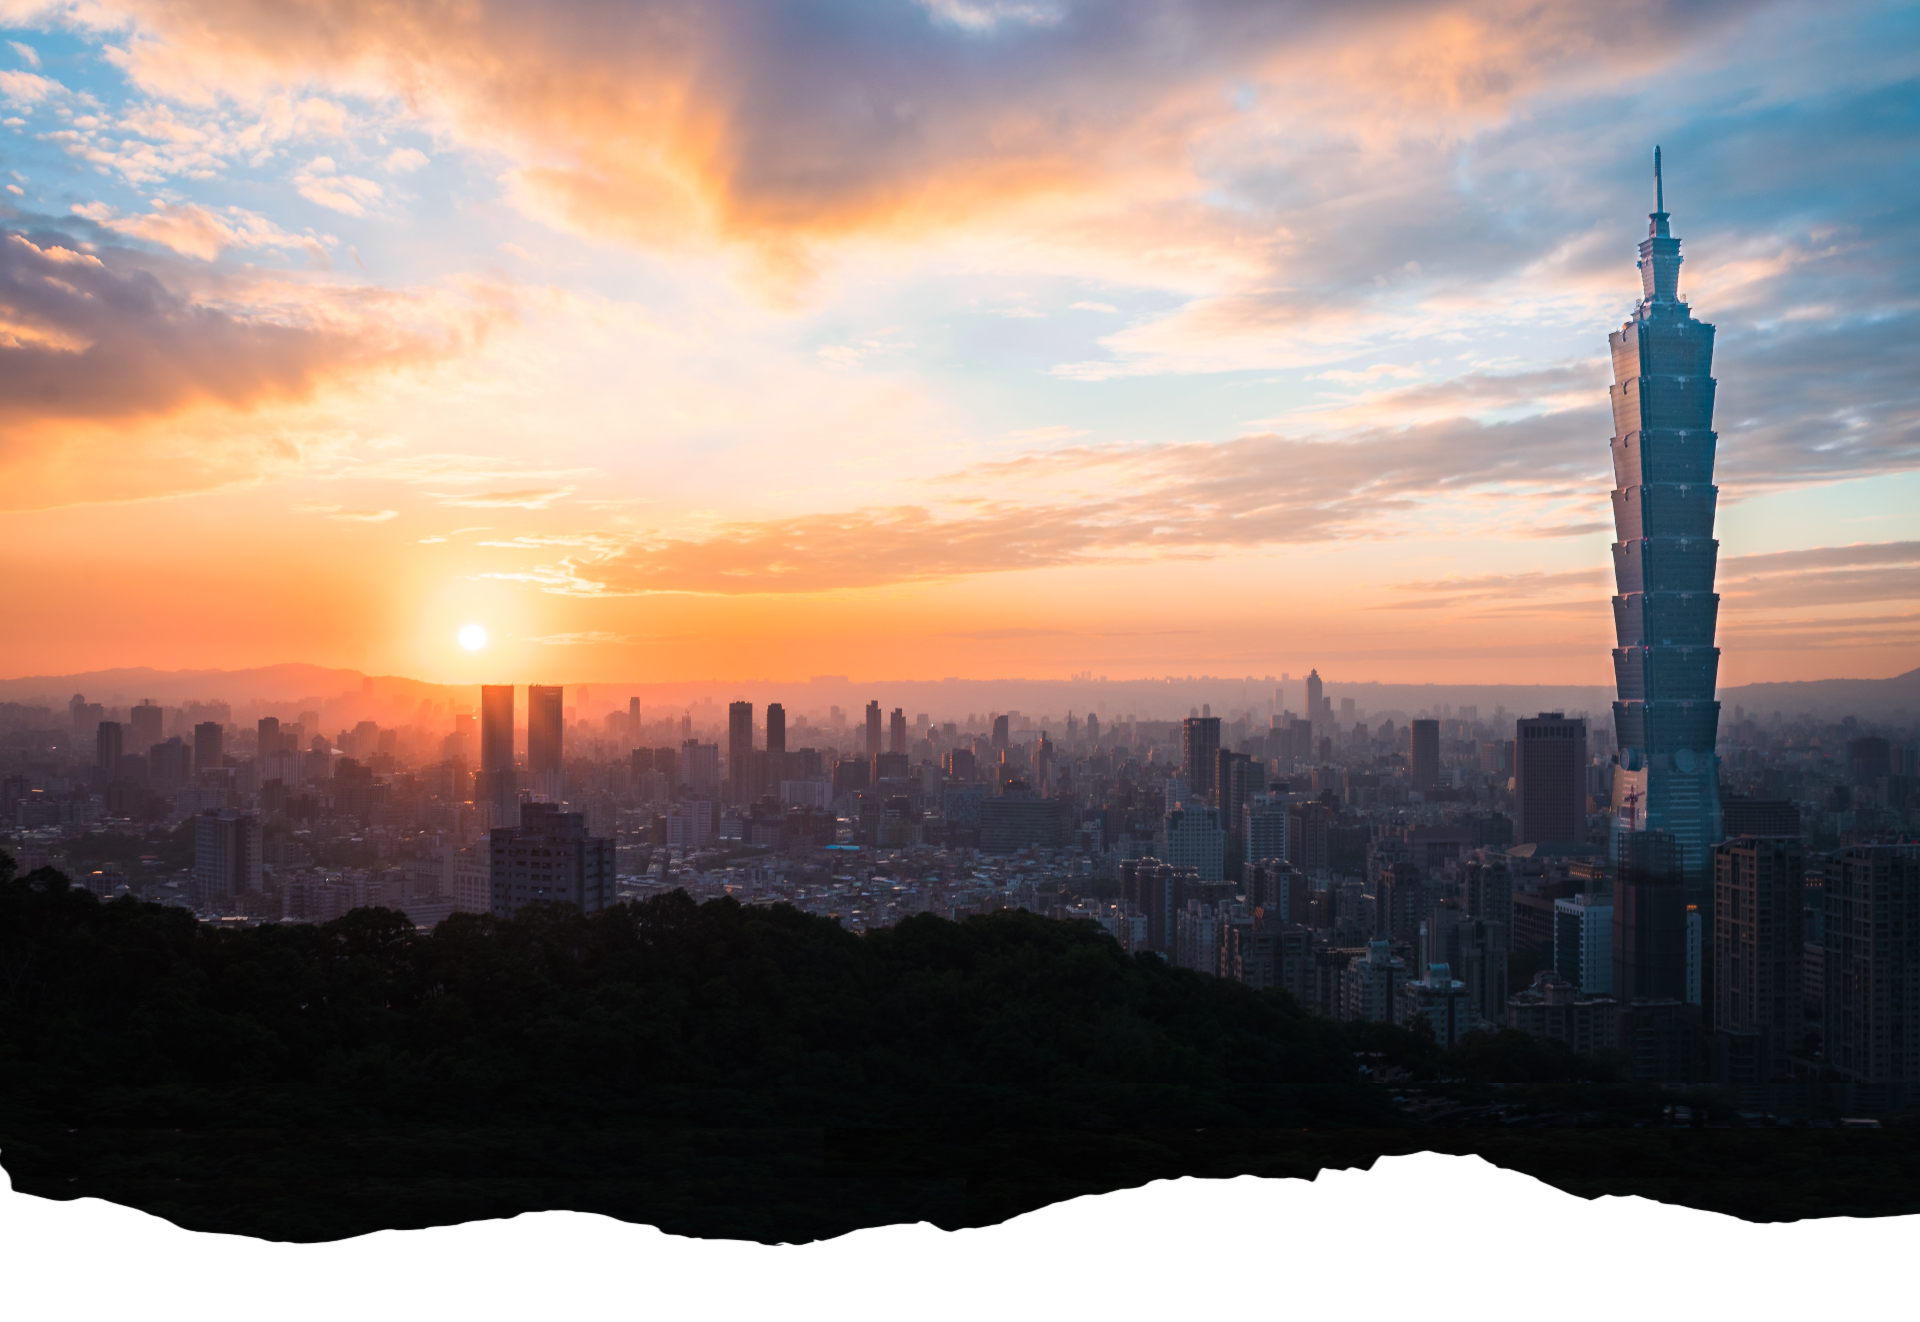
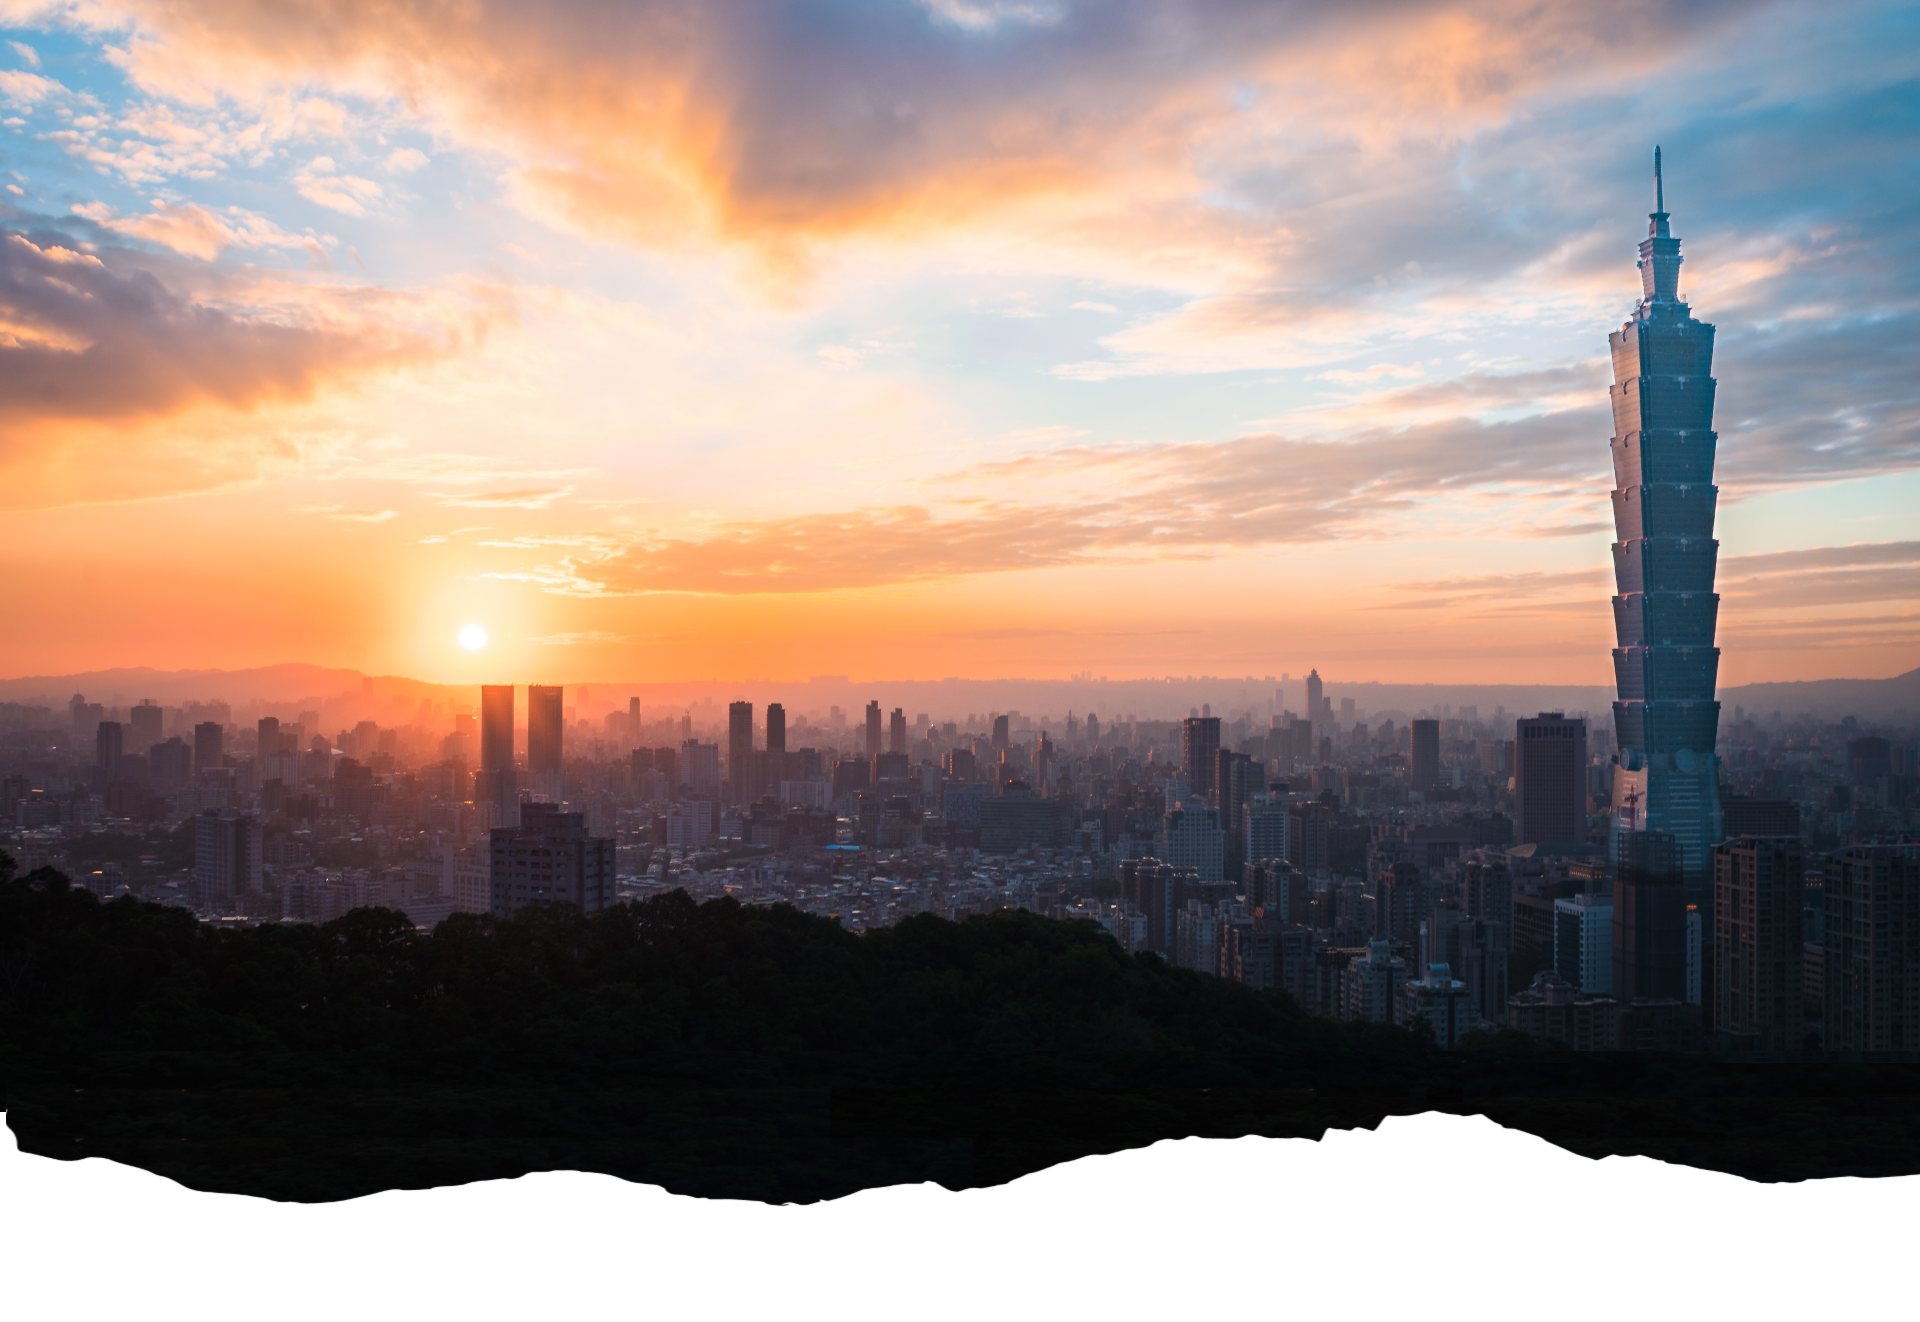
change picture

Changed region(s): [[0.0, 0.8374, 1.0, 0.9614]]

diff --git a/public/stylesheets/newIndex.css b/public/stylesheets/newIndex.css
@@ -146,8 +146,8 @@ body {
 }
 
 .hero-image1 {
-  background-image: linear-gradient(rgba(0, 0, 0, 0) 0%, rgba(0, 0, 0, 0) 65%, rgba(0, 0, 0, 0.5) 75%, rgb(0, 0, 0) 90%, rgba(0, 0, 0, 0) 90%), url("/images/hero/newcover2.png");
-  height: 125%;
+  background-image: linear-gradient(rgba(0, 0, 0, 0) 0%, rgba(0, 0, 0, 0) 65%, rgba(0, 0, 0, 0) 10%), url("/images/hero/newcover2.png");
+  height: 118%;
   background-size: cover;
   transition: 1.5s;
   opacity: 0;
@@ -381,7 +381,7 @@ body {
 
 
 #title{
-  padding-top: 30px;
+  padding-top: 10px;
 }
 
 #title h1, h3, h4, h5{
